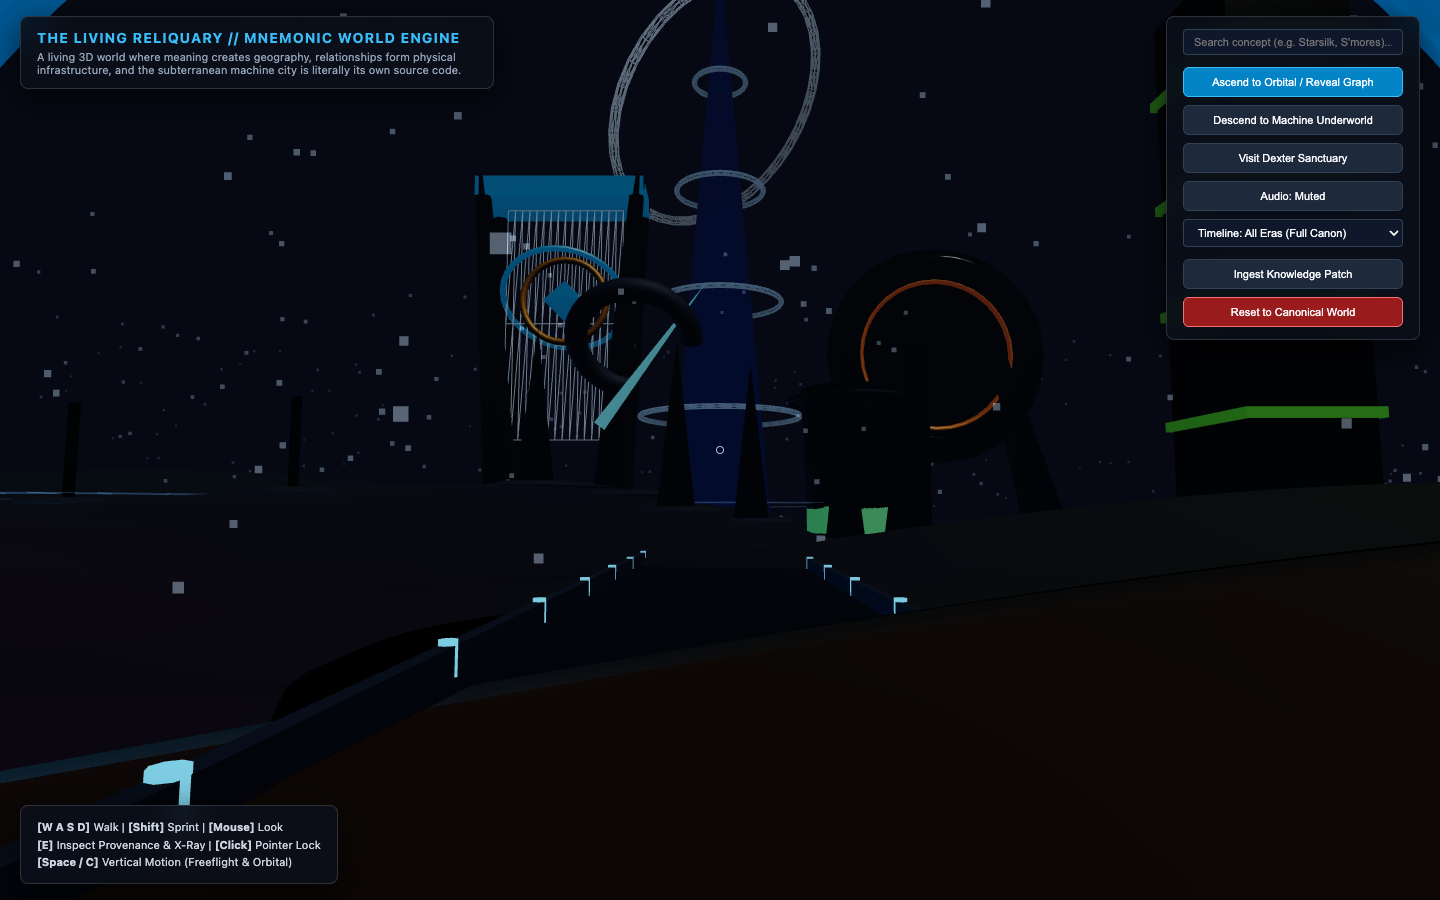
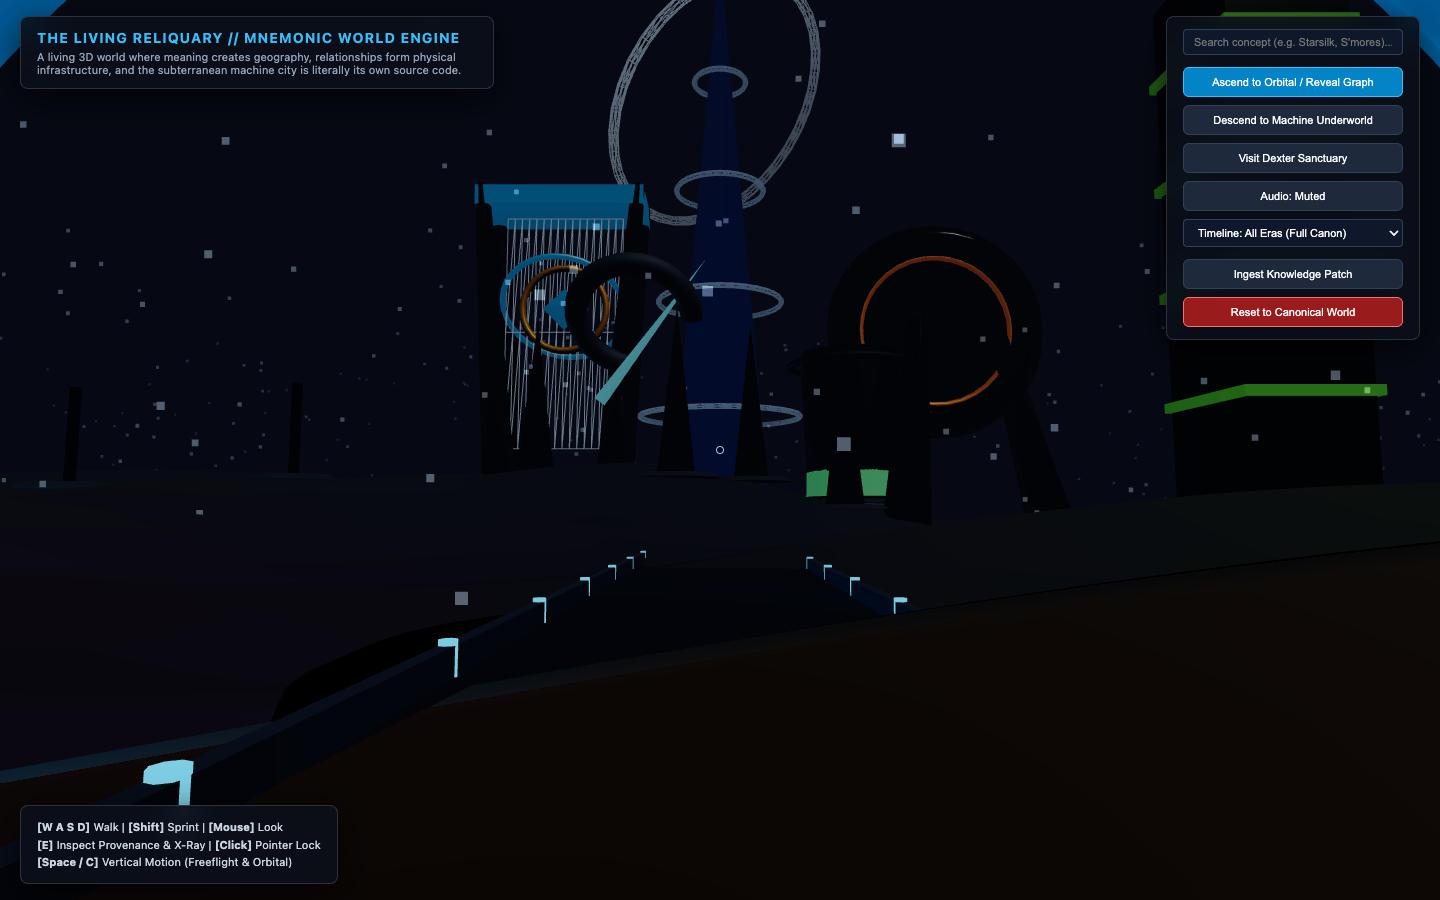
refine(loop-03): semantic physics with epoch gravitational uplift and live topology relaxation

diff --git a/src/world/Terrain.ts b/src/world/Terrain.ts
@@ -55,12 +55,27 @@ export class Terrain {
       }
     }
 
+    // 5. Semantic Gravitational Wells & Uplifts:
+    // Exhibits exert localized gravitational elevation or depression depending on their epoch & relationship density
+    let semanticUplift = 0;
+    for (const ex of this.worldData.exhibits) {
+      const dx = x - ex.position[0];
+      const dz = z - ex.position[2];
+      const dEx = Math.hypot(dx, dz);
+      if (dEx < 20) {
+        const weight = Math.cos((dEx / 20) * Math.PI * 0.5);
+        // Archaic foundational knowledge creates deeply carved foundation plinths; emergent creates rising ridges
+        const epochFactor = ex.epoch === 'archaic' ? -1.8 : (ex.epoch === 'emergent' ? 3.5 : 1.2);
+        semanticUplift += weight * epochFactor * (ex.scale || 1.0);
+      }
+    }
+
     // Procedural terrain harmonics (terracing & geological ridges)
     const ridge = Math.sin(x * 0.025) * Math.cos(z * 0.025) * 3.5 +
                   Math.sin(x * 0.06 + z * 0.05) * 1.6;
 
     const baseHeight = totalWeight > 0 ? (elevationSum / totalWeight) : 0;
-    return baseHeight + ridge;
+    return baseHeight + ridge + semanticUplift;
   }
 
   private buildTerrain() {
@@ -121,6 +136,18 @@ export class Terrain {
     this.mesh = new THREE.Mesh(this.geometry, mat);
     this.mesh.receiveShadow = true;
     this.group.add(this.mesh);
+  }
+
+  public rebuildTopology(worldData: SemanticWorldData) {
+    this.worldData = worldData;
+    const pos = this.geometry.attributes.position;
+    for (let i = 0; i < pos.count; i++) {
+      const x = pos.getX(i);
+      const z = pos.getZ(i);
+      pos.setY(i, this.getHeightAt(x, z));
+    }
+    pos.needsUpdate = true;
+    this.geometry.computeVertexNormals();
   }
 
   // 3 World-Class Megastructures with Architectural Depth & Skyline

diff --git a/src/world/MnemonicEngine.ts b/src/world/MnemonicEngine.ts
@@ -200,6 +200,7 @@ export class MnemonicEngine {
       alert(res.message);
       if (res.success && res.patchExhibit) {
         this.soundscapes.playPulseTone(180, 0.7); // Low tectonic rumble
+        this.terrain.rebuildTopology(this.mutationManager.currentWorldData);
         this.buildLandmarks(this.mutationManager.currentWorldData.exhibits);
         this.graphRenderer.updateData(
           this.mutationManager.currentWorldData.relationships,
@@ -218,6 +219,7 @@ export class MnemonicEngine {
 
     this.ui.events.onResetCanonical = () => {
       this.mutationManager.resetToCanonical();
+      this.terrain.rebuildTopology(this.mutationManager.currentWorldData);
       this.buildLandmarks(this.mutationManager.currentWorldData.exhibits);
       this.graphRenderer.updateData(
         this.mutationManager.currentWorldData.relationships,
